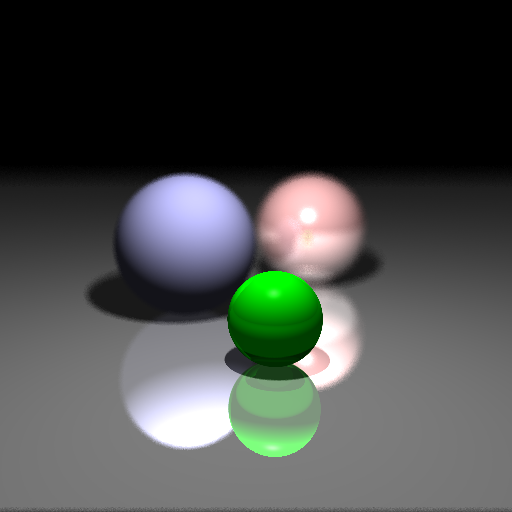
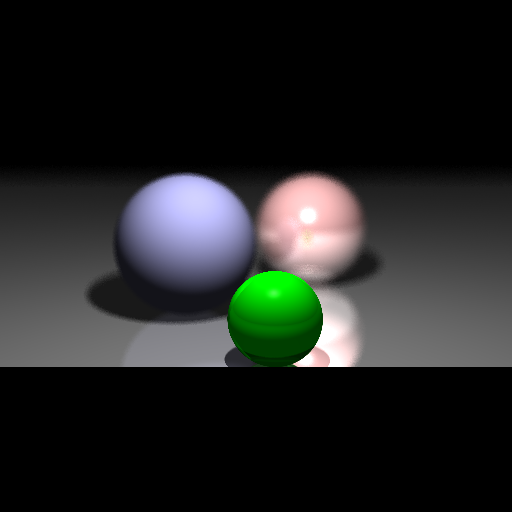
after assign6

Changed region(s): [[0.0, 0.7188, 1.0, 1.0]]

diff --git a/NewRayTracer/raytracer/OurScene.cpp b/NewRayTracer/raytracer/OurScene.cpp
@@ -14,120 +14,140 @@ void OurScene::initializeAssignment6()
     rtClear();
     
     ////global settings
-    
-    rtCamera(/*eye*/STPoint3(10.f,6.f,19.f),/*up*/STVector3(0.f,1.f,0.f),/*lookat*/STPoint3(10.f,1.f,0.f),/*fov*/45.f,/*aspect*/1.f);
-    rtOutput(/*width*/512,/*height*/512,/*path*/"../Standard_Tests/Assignment6.png");
-    rtBounceDepth(5);
-    rtUseTransparentShadow(true);
+    rtCamera(/*eye*/STPoint3(0.f,0.f,15.f),/*up*/STVector3(0.f,1.f,0.f),/*lookat*/STPoint3(0.f,0.f,-20.f),/*fov*/60.f,/*aspect*/1.f);
+    rtOutput(/*width*/512,/*height*/512,/*path*/"../Standard_Tests/Assignment6f.png");
+    rtBounceDepth(8);
     rtShadowBias(1e-4f);
     rtSampleRate(4);
     
     ////lighting
     rtAmbientLight(STColor3f(.1f,.1f,.1f));
-    rtPointLight(STPoint3(10.f,10.f,15.f),STColor3f(.2f,.2f,.2f));
-    rtPointLight(STPoint3(10.f,10.f,5.f),STColor3f(.2f,.2f,.2f));
-    rtPointLight(STPoint3(5.f,10.f,8.f),STColor3f(.2f,.2f,.2f));
-    rtPointLight(STPoint3(15.f,10.f,8.f),STColor3f(.2f,.2f,.2f));
-    rtPointLight(STPoint3(10.f,8.f,16.f),STColor3f(.2f,.2f,.2f));
-    Material mat(STColor3f(.5f,.5f,.5f),STColor3f(.3f,.3f,.3f),STColor3f(),STColor3f(),10.f);
+    rtPointLight(STPoint3(3.f,12.f,10.f),STColor3f(1.f,1.f,1.f));
+
+    //back wall(sky)
+    Material mat_wall(STColor3f(1.f,1.f,1.f),STColor3f(.2f,.5f,.9f),STColor3f(),STColor3f(),30.f);
+    rtMaterial(mat_wall);
+    //bottom left (x,y,z), (length, width)
+    addBackgroundWall(STPoint3(-500.f,-200.f,-500.f),STVector2(1000.f,1000.f),true);
+    
+    
+    //ground (possible mountains)
+    Material mat_ground(STColor3f(1.f,1.f,1.f),STColor3f(.8f,.8f,.8f),STColor3f(),STColor3f(),30.f);
+    rtMaterial(mat_ground);
+    //Not exactly sure what these correspond to but....seems to work
+    addGround(STPoint3(-500.f,-50.f,-500.f),STVector2(1000.f,1000.f),true);
+    
+    
     Material mat_glass(/*ambient*/STColor3f(.1f,.1f,.1f),/*diffuse*/STColor3f(),/*spec*/STColor3f(0.5f,0.5f,0.5f),/*mirror*/STColor3f(.2f,.2f,.2f),/*shiness*/30.f,/*refr*/STColor3f(.7f,.6f,.9f),/*sn*/1.2f);
     rtMaterial(mat_glass);
-    rtAttenuation(1.f);
+    //These next two lines add a slighly transparent shadow (based on the attenuation number)
+    rtUseTransparentShadow(true);
+    rtAttenuation(.8f);
     
+    rtScale(.4f, .4f, .4f);
+
     rtPushMatrix();
-    rtTranslate(9.f,4.f,15.f);
-    rtScale(.25f,.25f,.25f);
-    //rtTriangleMesh("../Standard_Tests/bunny.obj",true,false);
     rtTriangleMesh("../Meshes_Materials/bottlenotexture.obj",true,false);
     rtTriangleMeshWithMaterialAndTexture("../Meshes_Materials/balloonrope.obj",true,false);
     rtPopMatrix();
     
-    ////environment box
-    Material mat_ground(STColor3f(1.f,1.f,1.f),STColor3f(.8f,.8f,.8f),STColor3f(),STColor3f(),30.f);
-    rtMaterial(mat_ground);
-    ////ground
-    addGround(STPoint3(0.f,0.f,0.f),STVector2(20.f,20.f),true);
+    rtPushMatrix();
+    rtTranslate(10.f, 5.f, -5.f);
+    rtTriangleMeshWithMaterialAndTexture("../Meshes_Materials/balloonrope.obj",true,false);
+    rtTriangleMesh("../Meshes_Materials/bottlenotexture.obj",true,false);
+    rtPopMatrix();
     
-    ////ceil
-    Material mat_ceil(STColor3f(1.f,1.f,1.f),STColor3f(.2f,.2f,.48f),STColor3f(),STColor3f(),30.f);
-    rtMaterial(mat_ceil);
-    addGround(STPoint3(0.f,0.f,0.f),STVector2(20.f,20.f),false);
-    ////background wall
-    Material mat_wall(STColor3f(1.f,1.f,1.f),STColor3f(.2f,.5f,.9f),STColor3f(),STColor3f(),30.f);
-    rtMaterial(mat_wall);
-    addBackgroundWall(STPoint3(0.f,0.f,0.f),STVector2(20.f,20.f),true);
-    //////forward wall
-    addBackgroundWall(STPoint3(0.f,0.f,20.f),STVector2(20.f,20.f),false);
-    ////left wall
-    Material mat_left_wall(STColor3f(1.1f,1.f,1.f),STColor3f(.1f,.8f,.1f),STColor3f(),STColor3f(),30.f);
-    rtMaterial(mat_left_wall);
-    addWall(STPoint3(0.f,0.f,0.f),STVector3(0.f,20.f,0.f),STVector3(0.f,0.f,20.f),true);
-    ////right wall
-    Material mat_right_wall(STColor3f(1.1f,1.f,1.f),STColor3f(.1f,.2f,.8f),STColor3f(),STColor3f(),30.f);
-    rtMaterial(mat_right_wall);
-    addWall(STPoint3(20.f,0.f,0.f),STVector3(0.f,20.f,0.f),STVector3(0.f,0.f,20.f),false);
+    rtPushMatrix();
+    rtTranslate(-12.f, -7.f, -12.f);
+    rtTriangleMeshWithMaterialAndTexture("../Meshes_Materials/balloonrope.obj",true,false);
+    rtTriangleMesh("../Meshes_Materials/bottlenotexture.obj",true,false);
+    rtPopMatrix();
+    
+    
+    Material mat_cloud(/*ambient*/STColor3f(.5f,.5f,.5f),/*diffuse*/STColor3f(.5f,.5f,.5f),/*spec*/STColor3f(.5f,.5f,.5f),/*mirror*/STColor3f(.5f,.5f,.5f),/*shiness*/120.f);
+    rtMaterial(mat_cloud);
+    rtMaterial(mat_ground);
+
+    addCloud(-8, 14, 0, 1.2);
+    addCloud(15, 20, -10, 1.8);
+    
+    
+    //DEPTH OF FIELD
+    rtSetApeture(10.f);
+    rtSetFocus(STPoint3(0.f, 0.f, 3.f));
+    
+    accel_structure=AABB_TREE;
+    AABBTree* aabb_tree=new AABBTree(objects);
+    aabb_trees.push_back(aabb_tree);
+}
 
 
-//    rtClear();
-//
-//    ////global settings
-//    rtCamera(/*eye*/STPoint3(0.f,1.f,6.f),/*up*/STVector3(0.f,1.f,0.f),/*lookat*/STPoint3(0.f,0.f,0.f),/*fov*/55.f,/*aspect*/1.f);
-//    rtOutput(/*width*/512,/*height*/512,/*path*/"../Standard_Tests/Assignment6.png");
-//    rtBounceDepth(3);
-//    rtUseShadow(true);
-//    rtShadowBias(1e-4f);
-//    rtSampleRate(4);
-//    
-//    rtAmbientLight(STColor3f(.1f,.1f,.1f));
-//    rtPointLight(STPoint3(0.f,3.f,2.f),STColor3f(1.f,1.f,1.f));
-//    
-//    ////ground
-//    Material mat_tri(/*ambient*/STColor3f(1.f,1.f,1.f),/*diffuse*/STColor3f(.4f,.4f,.4f),/*specular*/STColor3f(.0f,.0f,.0f),/*mirror*/STColor3f(.9f,.9f,.9f),/*shiness*/0.f);
-//    rtMaterial(mat_tri);
-//    addGround(STPoint3(-500.f,-1.f,-500.f),STVector2(1000.f,1000.f),true);
-//    
-//    ////sphere1
-//    Material mat_sphere1(/*ambient*/STColor3f(1.f,.75f,.75f),/*diffuse*/STColor3f(1.f,.75f,.75f),/*specular*/STColor3f(1.f,1.f,1.f),/*mirror*/STColor3f(.75f,.75f,.75f),/*shiness*/50.f);
-//    rtMaterial(mat_sphere1);
-//    rtSphere(STPoint3(1.f,0.f,-3.f),1.f);
-//    
-//    ////sphere2
-//    Material mat_sphere2(/*ambient*/STColor3f(.75f,.75f,1.f),/*diffuse*/STColor3f(.75f,.75f,1.f),/*specular*/STColor3f(0.f,0.f,0.f),/*mirror*/STColor3f(0.f,0.f,0.f),/*shiness*/0.f);
-//    rtMaterial(mat_sphere2);
-//    rtSphere(STPoint3(-1.f,0.f,-1.f),1.f);
-//    
-//    rtPushMatrix();
-//    rtScale(.25, .25, .25);
-//    rtTranslate(3, -2, 2);
-//    //rtTriangleMeshWithMaterialAndTexture("../Standard_Tests/balloonbottle1.obj", true, false);
-//    //rtTriangleMeshWithMaterialAndTexture("../Standard_Tests/bottle_noTexture_withBallon.obj", true, false);
-//    Material mat_glass(/*ambient*/STColor3f(.1f,.1f,.1f),/*diffuse*/STColor3f(),/*spec*/STColor3f(0.5f,0.5f,0.5f),/*mirror*/STColor3f(.2f,.2f,.2f),/*shiness*/30.f,/*refr*/STColor3f(.7f,.6f,.9f),/*sn*/1.2f);
-//    Material mat_glass1(/*ambient*/STColor3f(),/*diffuse*/STColor3f(),/*spec*/STColor3f(0.f,0.f,0.f),/*mirror*/STColor3f(0.f,0.f,0.f),/*shiness*/0.f,/*refr*/STColor3f(.9f,.3f,.1f),/*sn*/1.3f);
-//    rtMaterial(mat_glass1);
-//    rtTriangleMesh("../Meshes_Materials/bottlenotexture.obj",true,false);
-//    //rtTriangleMeshWithMaterialAndTexture("../Meshes_Materials/balloonrope.obj",true,false);
-//    rtPopMatrix();
-//    
-//
-//    ////sphere3
-//    Material mat_sphere3(/*ambient*/STColor3f(.0f,1.f,.0f),/*diffuse*/STColor3f(.0f,1.f,.0f),/*specular*/STColor3f(.3f,.3f,.3f),/*mirror*/STColor3f(0.f,0.3f,0.f),/*shiness*/50.f);
-//    rtMaterial(mat_sphere3);
-//    rtSphere(STPoint3(.2f,-.5f,1.f),.5f);
-//    
-//    ////set focus on sphere 3
-//    rtSetApeture(20.f);
-//    rtSetFocus(STPoint3(.2f, -.5f, 1.f));
-//    
-//    Material mat_wall(STColor3f(.5f,.5f,1.f),STColor3f(.4f,.2f,1.f),STColor3f(),STColor3f(),30.f);
-//    rtMaterial(mat_wall);
-//    ////background wall
-//    //addBackgroundWall(STPoint3(0.f,0.f,0.f),STVector2(20.f,20.f),true);
-//    ////forward wall
-//    //addBackgroundWall(STPoint3(0.f,0.f,20.f),STVector2(20.f,20.f),false);
-//    ////left wall
-//    //addWall(STPoint3(0.f,0.f,0.f),STVector3(0.f,20.f,0.f),STVector3(0.f,0.f,20.f),true);
-//    ////right wall
-//    //addWall(STPoint3(20.f,0.f,0.f),STVector3(0.f,20.f,0.f),STVector3(0.f,0.f,20.f),false);
+//3 rows of 3 spheres makes a cloud
+void OurScene::addCloud(int x, int y, int z, int size){
+    for(int i = -1; i <= 1; i++){
+        rtPushMatrix();
+        rtTranslate(0, i, 0);
+        rtSphere(STPoint3(x-1.5, y, z), size);
+        rtSphere(STPoint3(x, y, z), size);
+        rtSphere(STPoint3(x+1.5, y, z), size);
+        rtPopMatrix();
+    }
+}
+
+
+void OurScene::initializeAssignment6b()
+{
+    rtClear();
+    
+    ////global settings
+    rtCamera(/*eye*/STPoint3(0.f,1.f,6.f),/*up*/STVector3(0.f,1.f,0.f),/*lookat*/STPoint3(0.f,0.f,0.f),/*fov*/55.f,/*aspect*/1.f);
+    rtOutput(/*width*/512,/*height*/512,/*path*/"../Standard_Tests/Assignment6b.png");
+    rtBounceDepth(10);
+    rtUseShadow(true);
+    rtShadowBias(1e-4f);
+    rtSampleRate(4);
+    
+    rtAmbientLight(STColor3f(.1f,.1f,.1f));
+    rtPointLight(STPoint3(0.f,3.f,2.f),STColor3f(1.f,1.f,1.f));
+    
+    ////ground
+    Material mat_tri(/*ambient*/STColor3f(1.f,1.f,1.f),/*diffuse*/STColor3f(.4f,.4f,.4f),/*specular*/STColor3f(.0f,.0f,.0f),/*mirror*/STColor3f(.9f,.9f,.9f),/*shiness*/0.f);
+    rtMaterial(mat_tri);
+    addGround(STPoint3(-500.f,-1.f,-500.f),STVector2(1000.f,1000.f),true);
+    
+    ////sphere1
+    Material mat_sphere1(/*ambient*/STColor3f(1.f,.75f,.75f),/*diffuse*/STColor3f(1.f,.75f,.75f),/*specular*/STColor3f(1.f,1.f,1.f),/*mirror*/STColor3f(.75f,.75f,.75f),/*shiness*/50.f);
+    rtMaterial(mat_sphere1);
+    //rtSphere(STPoint3(1.f,0.f,-3.f),1.f);
+    rtPushMatrix();
+    rtScale(.25, .25, .25);
+    rtTranslate(3.f, -1.5f, -2.f);
+    rtTriangleMesh("../Meshes_Materials/bottlenotexture.obj",true,false);
+    rtPopMatrix();
+    
+    ////sphere2
+    Material mat_sphere2(/*ambient*/STColor3f(.75f,.75f,1.f),/*diffuse*/STColor3f(.75f,.75f,1.f),/*specular*/STColor3f(0.f,0.f,0.f),/*mirror*/STColor3f(0.f,0.f,0.f),/*shiness*/0.f);
+    rtMaterial(mat_sphere2);
+    //rtSphere(STPoint3(-1.f,0.f,-1.f),1.f);
+    rtPushMatrix();
+    rtScale(.35, .45, .35);
+    rtTranslate(-2.2f, -1.f, -1.f);
+    rtTriangleMesh("../Meshes_Materials/bottlenotexture.obj",true,false);
+    rtPopMatrix();
+    
+    ////sphere3
+    Material mat_sphere3(/*ambient*/STColor3f(.0f,1.f,.0f),/*diffuse*/STColor3f(.0f,1.f,.0f),/*specular*/STColor3f(.3f,.3f,.3f),/*mirror*/STColor3f(0.f,0.3f,0.f),/*shiness*/50.f);
+    rtMaterial(mat_sphere3);
+    //rtSphere(STPoint3(.2f,-.5f,1.f),.5f);
+    rtPushMatrix();
+    rtScale(.20, .15, .20);
+    rtTranslate(.2f, -4.f, 3.f);
+    rtTriangleMesh("../Meshes_Materials/bottlenotexture.obj",true,false);
+    rtPopMatrix();
+    
+    ////set focus on sphere 3
+    rtSetApeture(20.f);
+    rtSetFocus(STPoint3(.2f, -.5f, 1.f));
 }
 
 

diff --git a/NewRayTracer/raytracer/OurScene.h b/NewRayTracer/raytracer/OurScene.h
@@ -26,7 +26,9 @@ public:
     void initializeAssignment5SampleRate(int rate);
     void initializeAssignment5Grid();
     void initializeAssignment6();
-    
+    void initializeAssignment6b();
+
+    void addCloud(int x, int y, int z, int size);
     void addClusteredObjects();
     void addUniformObjects();
     void addWallsAndGround();
